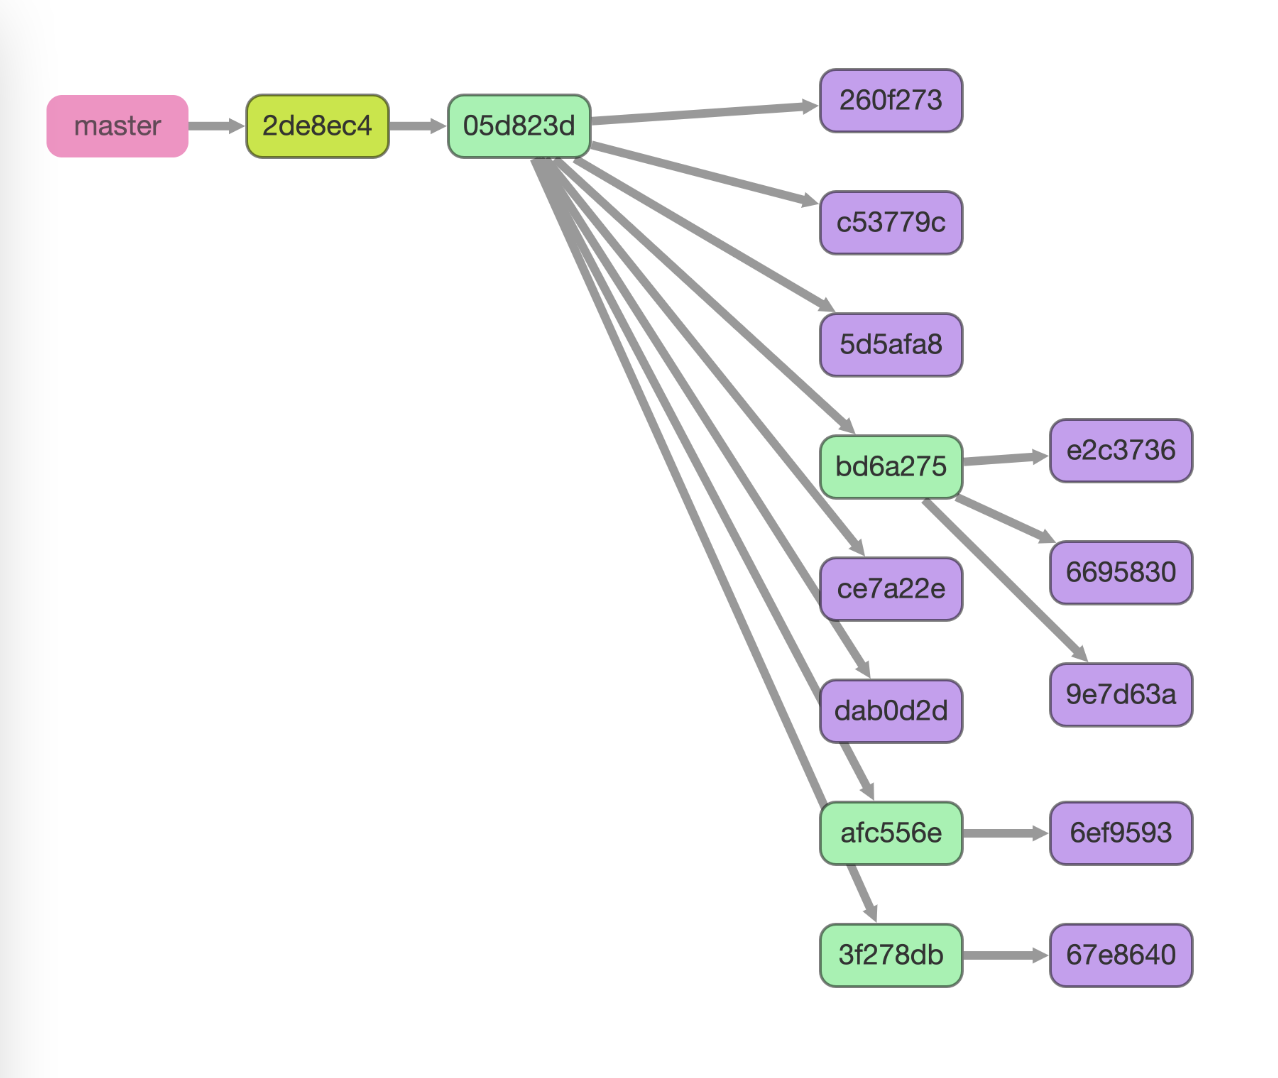
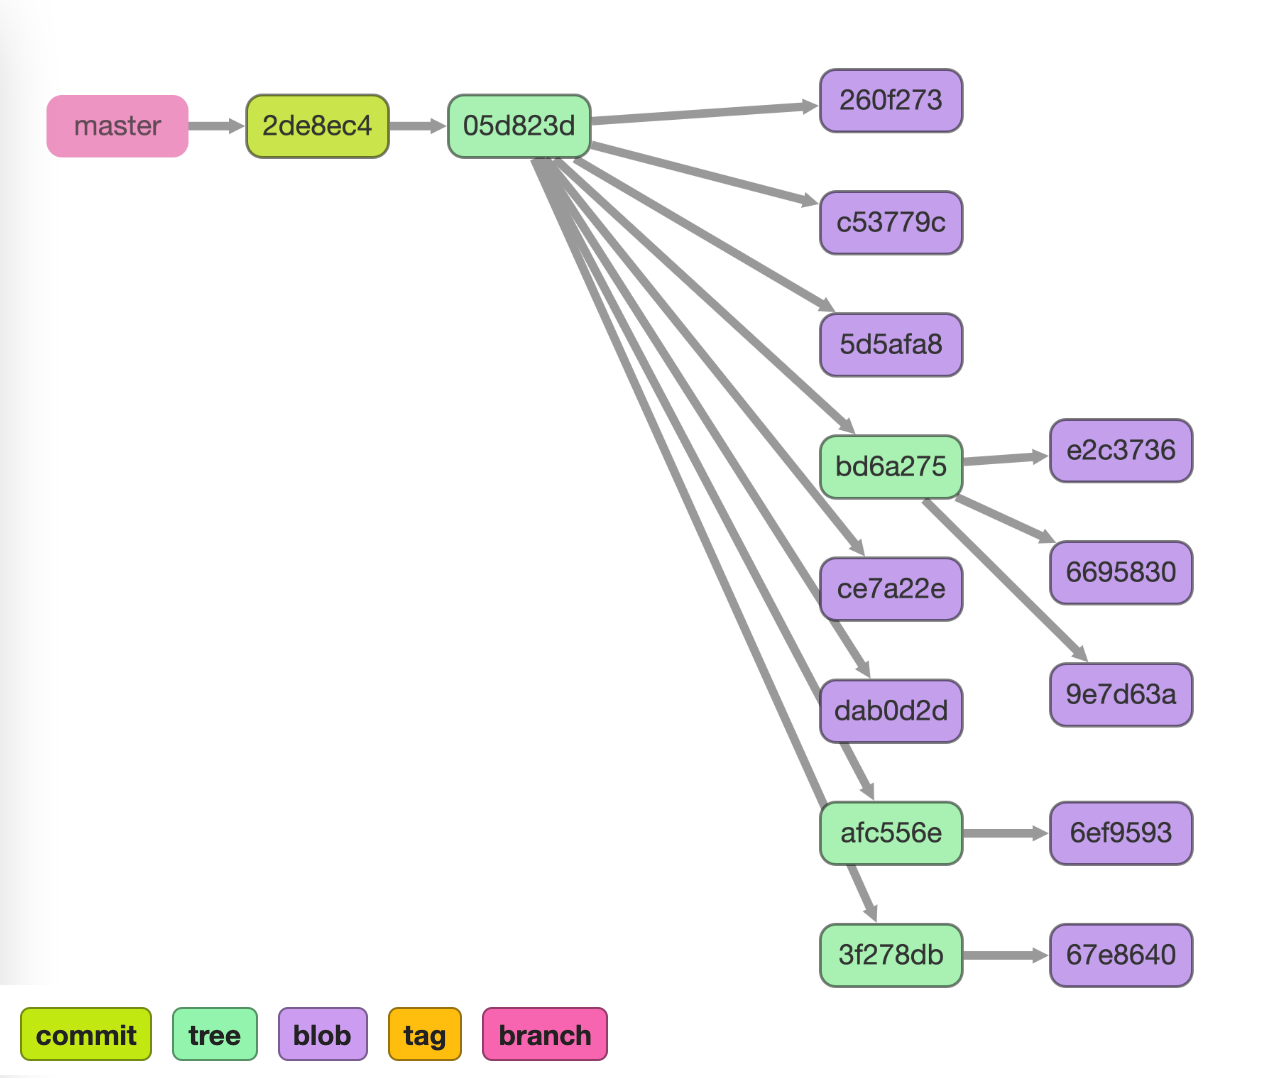
readme

Changed region(s): [[0.0, 0.9184, 0.4883, 1.0]]

diff --git a/README.md b/README.md
@@ -2,6 +2,12 @@
 
 Show all Git objects in a repository as a DAG.
 
+## Installation
+
+```bash
+npm install -g git-dag
+```
+
 ## How to use
 
 ```bash
